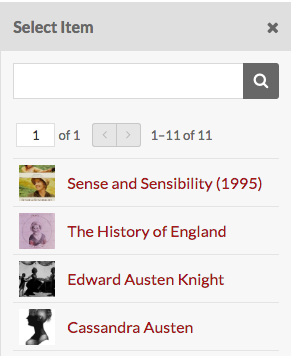
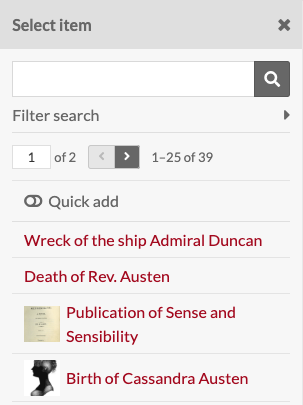
Site pages tweaks
tweaks and updates

diff --git a/docs/sites/site_pages.md b/docs/sites/site_pages.md
@@ -105,13 +105,29 @@ Creates a block with one or more pieces of media associated with items in the it
 
 To add media, click the *add attachment*. 
 
-On loading, the drawer will show a list of your items, most recent first. You can select from the first page, page through using the forward and back arrows, or search using the search bar.
+On loading, the drawer will show a list of your items, most recent first. You can select from the first page, page through using the forward and back arrows, or search using the search bar. You can select from the first page, page through using the forward and back arrows, or search using the search bar. 
 
 ![Select item drawer](../sites/sitesfiles/sitepg_selectitem.png)
+ 
+If you have a large number of items to navigate, or multiple items with the same title, you can use the "Filter search" options by clicking the triangle button to the right of its label. 
+ 
+These options are:
+
+- Filter by class: opens a dropdown to select from all of the classes for the vocabularies in the Omeka S installation.
+- Filter by item set: opens a dropdown to select from all item sets in the installation, not just those associated with the site on which you are working.
+- Filter by item id: you can put in the specific item id for an item (the number which appears in the url when you are looking at the item on the admin). 
+
+Once you have applied your changes to the filter, you must click the search button (magnifying glass) to apply the filters or run the search.
+
+![Select item drawer with filter options displayed](../sites/sitesfiles/sitepg_selectitemFilter.png)
 
 Once you’ve selected an item, the drawer will shift to that item’s information. You can add a caption and select which media (if more than one) you want to use. To return to the list of items, click the *Select item* button at the top of the drawer. To use the item displayed and apply the caption, etc, click the *Apply changes* button at the bottom of the drawer.
 
 ![Item view with apply changes option](../sites/sitesfiles/sitepg_applyitem.png)
+
+To add multiple items at once, click the "quick add" slider just above the list of items in the right hand drawer. This will add a checkbox to the left of each item. Check the boxes of those items you want to add to the block, then click the "Add selected" button at the bottom of the drawer.
+
+![Select item drawer with quick add activated - every item in the view now has a checkbox.](../sites/sitesfiles/sitepg_selectitemQuick.png)
 
 The Media block has options for the display of the media: 
 
@@ -152,13 +168,25 @@ Click the *Add Attachment* button to add an item to the block. This will open a 
 
 ![Block for item showcase with one item added](../sites/sitesfiles/sitepg_showcase.png)
 
-On loading, the drawer will show a list of your items, most recent first. You can select from the first page, page through using the forward and back arrows, or search using the search bar.
+If you have a large number of items to navigate, or multiple items with the same title, you can use the "Filter search" options by clicking the triangle button to the right of its label. 
+ 
+These options are:
 
-![Select item drawer](../sites/sitesfiles/sitepg_selectitem.png)
+- Filter by class: opens a dropdown to select from all of the classes for the vocabularies in the Omeka S installation.
+- Filter by item set: opens a dropdown to select from all item sets in the installation, not just those associated with the site on which you are working.
+- Filter by item id: you can put in the specific item id for an item (the number which appears in the url when you are looking at the item on the admin). 
+
+Once you have applied your changes to the filter, you must click the search button (magnifying glass) to apply the filters or run the search.
+
+![Select item drawer with filter options displayed](../sites/sitesfiles/sitepg_selectitemFilter.png)
 
 Once you’ve selected an item, the drawer will shift to that item’s information. You can add a caption and select which media (if more than one) you want to use. To return to the list of items, click the *Select item* button at the top of the drawer. To use the item displayed and apply the caption, etc, click the *Apply changes* button at the bottom of the drawer.
 
 ![Item view with apply changes option](../sites/sitesfiles/sitepg_applyitem.png)
+
+To add multiple items at once, click the "quick add" slider just above the list of items in the right hand drawer. This will add a checkbox to the left of each item. Check the boxes of those items you want to add to the block, then click the "Add selected" button at the bottom of the drawer.
+
+![Select item drawer with quick add activated - every item in the view now has a checkbox.](../sites/sitesfiles/sitepg_selectitemQuick.png)
 
 To cancel the item selection, click the X in the upper right corner of the drawer at any time.
 
